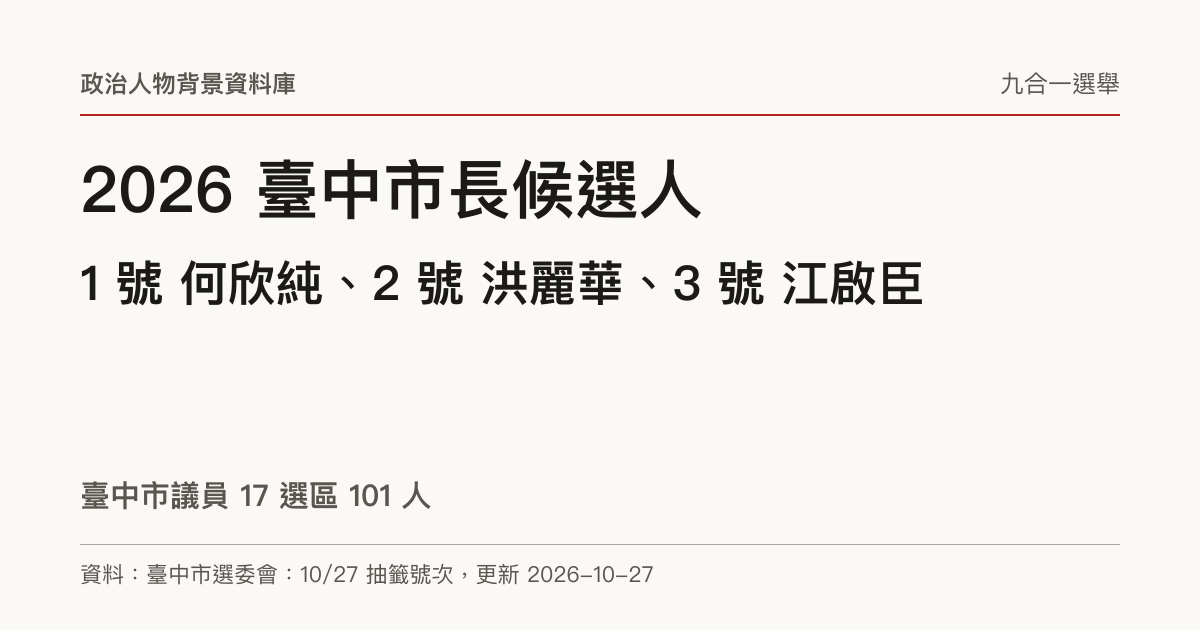
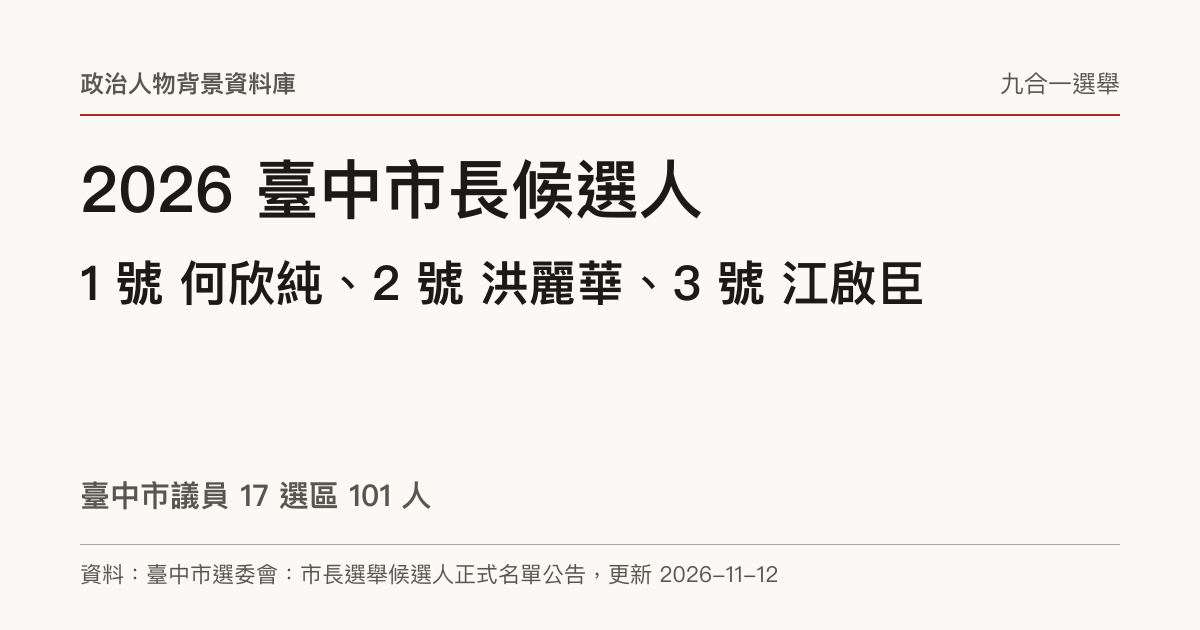
data: add Nov 15 policies and official mayor roster sources

Changed region(s): [[0.2467, 0.8746, 0.6475, 0.9349]]

diff --git a/test/candidatePolicies.test.ts b/test/candidatePolicies.test.ts
@@ -142,9 +142,9 @@ describe('首長政見全名冊查核', () => {
     const reviews = indexPolicyReviews(data, roster, policies);
     expect(data.rosterDate).toBe(national.source.tableDate);
     expect(reviews.size).toBe(81);
-    expect(roster.filter((c: { slug: string }) => policies.has(c.slug))).toHaveLength(75);
-    expect([...policies.values()].filter(c => c.role.endsWith('議員'))).toHaveLength(60);
-    expect([...reviews.values()].filter(r => r.status === 'pending-source')).toHaveLength(6);
+    expect(roster.filter((c: { slug: string }) => policies.has(c.slug))).toHaveLength(77);
+    expect([...policies.values()].filter(c => c.role.endsWith('議員'))).toHaveLength(62);
+    expect([...reviews.values()].filter(r => r.status === 'pending-source')).toHaveLength(4);
     expect(national.races.every((r: { candidates: { slug: string }[] }) => r.candidates.some(c => policies.has(c.slug)))).toBe(true);
   });
   it('漏掉候選人、姓名錯置或重複都會阻止建置', () => {

diff --git a/docs/candidate-policy-audit-2026.md b/docs/candidate-policy-audit-2026.md
@@ -398,3 +398,21 @@
 人物基本資料：[refresh-data run 42589714134](https://github.com/weryk153/legislator-background/actions/runs/42589714134)成功完成，下載factual-refresh-evidence/status.json核對：1,043份、失敗0、careersAdded=0、assetsAdded=0、assetsEnriched=0、changed=false。人物快照與日期不變；本輪只啟動一次，完成後fetch origin確認本機與遠端基準相同。既有兩份司法程式與測試修改逐位元比對執行前備份一致；本輪未呼叫司法API或變更排程。
 
 驗證：政見、首長比較、議員比較及號次4個測試檔共41項通過；議員收錄數基準由57更新為60，完整建置2,153頁成功。原有220筆政策紀錄逐筆一致，新增34項摘要與9筆來源均已輸出至正確人物頁。390px檢查臺北兩位首長文化主題比較、吳佩芸與何文海議員政見比較及吳佩芸人物頁，新增內容可讀且無水平溢出，未知日期、未收錄說明及2026無黨籍顯示正確。README及開發文件同步更新收錄數。
+
+## 2026-11-15 每日維護
+
+新增5筆紀錄、19項摘要，涉及3位首長與2位議員；累計139人（77位首長、62位議員）、234筆紀錄、813項摘要。範圍為本輪實際讀取的新聞、公報與官網政策，不代表已全面收錄所有候選人或任何一人的全部政見。
+
+- 林志成：依[鏡報／Yahoo 11/15報導](https://tw.news.yahoo.com/北市政見會變ktv-林志成拋9政見後高歌-金包銀-還想唱第2首網笑瘋-063900830.html)，收錄11/14臺北市長公辦政見會的居住、午餐補助、運動場館、警察福利與法律協助、性工作者健康管理等5項摘要。發表日與刊登日分開，未載預算、資格、法制或權益保障者明示限制；未納入訴訟、爭議及網友評論。由待補改為已收錄。
+- 王義成：讀取[嘉義市選委會11/12公報公告](https://web.cec.gov.tw/cyec/article/65774)及[市長公報第1頁](https://web.cec.gov.tw/api/file/7776fb6c-7d6c-49c6-9528-8b8dee9f5d2d.pdf)，新增創業貸款利息補貼、特色夜市、全齡照護與托育4項。與現行名冊1號及姓名核對一致；原先新聞資料矛盾已可由本屆正式原件解決，由待補改為收錄。7,000萬元的期間與個別補助額度未載，不補造；公報未載提出日，announcedOn為null，publishedOn依公告11/12。
+- 黃政融、陳嘉弘：依[議員公報公告](https://web.cec.gov.tw/cyec/article/65776)及[第2選區公報第1頁](https://web.cec.gov.tw/api/file/3ff09b11-e53f-4cc9-9a50-feac32cf334a.pdf)，逐人核對嘉義市第2選區1號、2號與既有slug，分別新增3項、4項摘要。保留爭取、督促、修法等職權性質；未載提出日保留null。已檢視PDF原頁，未將學經歷當政見。本輪僅收錄這兩名議員，公報其餘候選人仍待後續逐人整理。
+- 沈伯洋：查閱本人官網政策目錄及[新住民政策正文](https://puma.taipei/policies/新住民政策)，新增3項，涵蓋多語市政服務、創業諮詢與法遵輔導、在地服務站。保留預約與AI翻譯的研議性質、利用既有場地及四處關懷據點分工，發表與刊登日期均未載，保留null。
+- 官方公報資料庫115搜尋仍無相符檔案，但嘉義市選委會已有本屆公報，不能以中央搜尋結果推定各縣市未公布。其餘4位待補首長劉燦輝、楊鉯婷、林佳瑜、魏造文逐人搜尋後，未取得可新增的具體原始政策證據；保留pending-source，未使用AI整理、往屆政策或本站內容補值。
+
+名冊與號次：重算22個首長選舉81人、221個議員選區1,493人，合計1,574人，待補0人、0選區。巡查中選會及22縣市選委會首頁公告列表，並逐名核對六都市長11/12正式名單及嘉義市市長公報，7組28人姓名與號次均一致，更新這7組來源；其餘既有資料與日期不變。詳見號次查核紀錄。
+
+驗證：政見、首長比較、議員比較及號次4個測試檔共41項通過；最後補入新北、臺南來源後重跑號次6項通過。完整建置2,159頁成功，原有229筆政策紀錄逐筆一致，新增19項摘要均輸出至相應人物HTML。390px檢查王義成人物頁、王義成／王美惠首長比較、黃政融／陳嘉弘議員政見比較，文字可讀且無水平溢出，未知發表日期與公報刊登日分開顯示。7張選舉圖卡更新完成。本次瀏覽器工作空間及4337預覽伺服器已關閉。
+
+人物基本資料：[refresh-data run 43697070423](https://github.com/weryk153/legislator-background/actions/runs/43697070423)於本輪啟動一次，執行約49分鐘後失敗。已下載factual-refresh-evidence/status.json及failure.json，核對targets=1043、reviewed=1043；113次失敗均為立法院來源ly，錯誤為「The operation was aborted」。careersAdded=0、assetsAdded=0、assetsEnriched=0、changed=false、published=false。工作流程明確拒絕發布，人物快照與資料日期保持原值，不能稱為成功更新。其他來源成功不代表全部查核成功。本輪不再次啟動相同工作流程。
+
+雲端結束後fetch origin，確認遠端與本機基準一致，再提交本輪已驗證的選舉及政見變更；人物來源失敗與本輪政策發布分開記錄。兩份原有司法程式／測試修改與執行前備份逐位元一致，未呼叫司法API、未修改司法或其他排程、未生成新聞快報。

diff --git a/docs/candidate-ballots-2026.md b/docs/candidate-ballots-2026.md
@@ -92,3 +92,19 @@
 - 官方附件：[縣長](https://web.cec.gov.tw/api/file/20e96e99-5b94-4a15-955b-a17c77dd5aa5.pdf)、[議員](https://web.cec.gov.tw/api/file/9a122fc1-c3be-4a9a-8e8f-837bd9571551.pdf)。公告10/30刊登，附件製表日期10/23，保留兩者差別。
 - 宜蘭新刊第468次、臺東9月份及金門第285至287次會議紀錄另作來源檢視；未據早期資格或登記紀錄覆蓋現行較新號次。未發現需要變更本專案首長／議員名冊或已收錄號次的新修正證據。
 - 本輪未呼叫司法API或調整司法排程，工作區原有司法檔案修改保留。
+
+## 11/15 正式名單與公報來源續核
+
+依現行已提交名冊重算：首長81人、議員1,493人，22個首長選舉及221個議員選區共1,574人，尚缺0人、0選區。本輪巡查中選會與22縣市選委會首頁公告列表，繼續核對正式資料，並非停止追蹤號次。
+
+逐名逐號核對11/12六都市長正式名單及嘉義市長公報，共7組28人，全數與既有名冊一致，僅更新相應來源與來源日期：
+
+- [臺北市](https://web.cec.gov.tw/mect/article/65736)：6人。
+- [新北市](https://web.cec.gov.tw/tpcec/article/65778)：3人。
+- [桃園市](https://web.cec.gov.tw/tyec/article/65648)：2人。
+- [臺中市](https://web.cec.gov.tw/tcec/article/65768)：3人。
+- [臺南市](https://web.cec.gov.tw/tnec/article/65615)：4人。
+- [高雄市](https://web.cec.gov.tw/khec/article/65758)：5人。
+- [嘉義市](https://web.cec.gov.tw/cyec/article/65774)：5人。
+
+新北、高雄掃描檔及臺南旋轉文字均檢視PDF原頁；新北與臺南初次頁面切換逾時後成功重讀附件。沒有依序號推測、沒有變更姓名、號次、黨籍或總人數。嘉義市議員公報本輪核對第2選區1號黃政融、2號陳嘉弘供政策收錄，其餘議員未宣稱已完成公報逐人核對，沿用已驗證號次來源。選舉頁、人物頁與圖卡由既有來源傳遞流程更新，原始全國審定日期保持原值。

diff --git a/README.md b/README.md
@@ -13,7 +13,7 @@
 
 - **經歷**：公職與相關職務。
 - **學歷**：全部 1,574 位 2026 縣市長與議員候選人皆有學歷欄，1,165 位已有資料，409 位待補；保留畢業、肄業、進修等原始狀態。2026 選舉公報公布後，矛盾資料以該屆公報為準。
-- **2026 政見**：已盤點81位首長候選人，收錄75位首長、60位議員，共794項公開政策摘要，6位首長待補來源；議員仍持續擴充；附日期與出處，尚未收錄不代表沒有發表。
+- **2026 政見**：已盤點81位首長候選人，收錄77位首長、62位議員，共813項公開政策摘要，4位首長待補來源；議員仍持續擴充；附日期與出處，尚未收錄不代表沒有發表。
 - **司法判決**：只收有罪判決，而且查到最新審級；還在上訴中的會標示「未定讞」。
 - **爭議**：媒體報導過的公共事件，包含已經不起訴或判無罪的（會標示清楚）。
 - **財產申報**：監察院公報上的申報資料。

diff --git a/docs/DEVELOPMENT.md b/docs/DEVELOPMENT.md
@@ -441,3 +441,5 @@ slug、固定 ID 或名冊比對衝突會中止；
 
 驗證：`pnpm exec vitest run test/candidateEducation.test.ts`；名冊增減時須同步更新學歷快照，否則建置會拒絕漏列或錯置。
 收錄範圍與限制見 [候選人學歷整理](candidate-education-2026.md)。
+
+2026-11-15每日維護：新增林志成、王義成、黃政融、陳嘉弘及沈伯洋新住民主題共5筆紀錄、19項摘要，累計77位首長、62位議員、234筆紀錄、813項摘要；首長待補4人。嘉義市本屆正式公報已取得，中央公報搜尋無結果不表示地方未公布。六都及嘉義市共7組28位市長候選人正式名單核對一致，更新11/12官方來源，1,574人號次仍完整。
